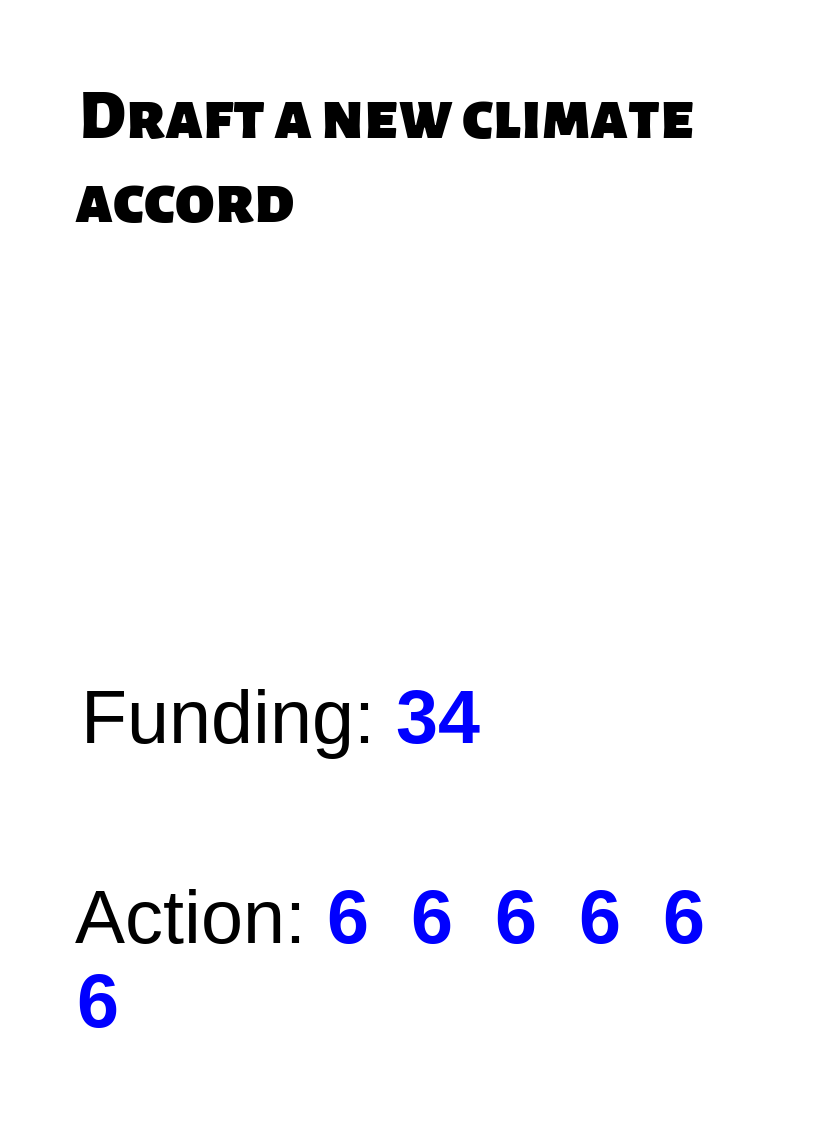
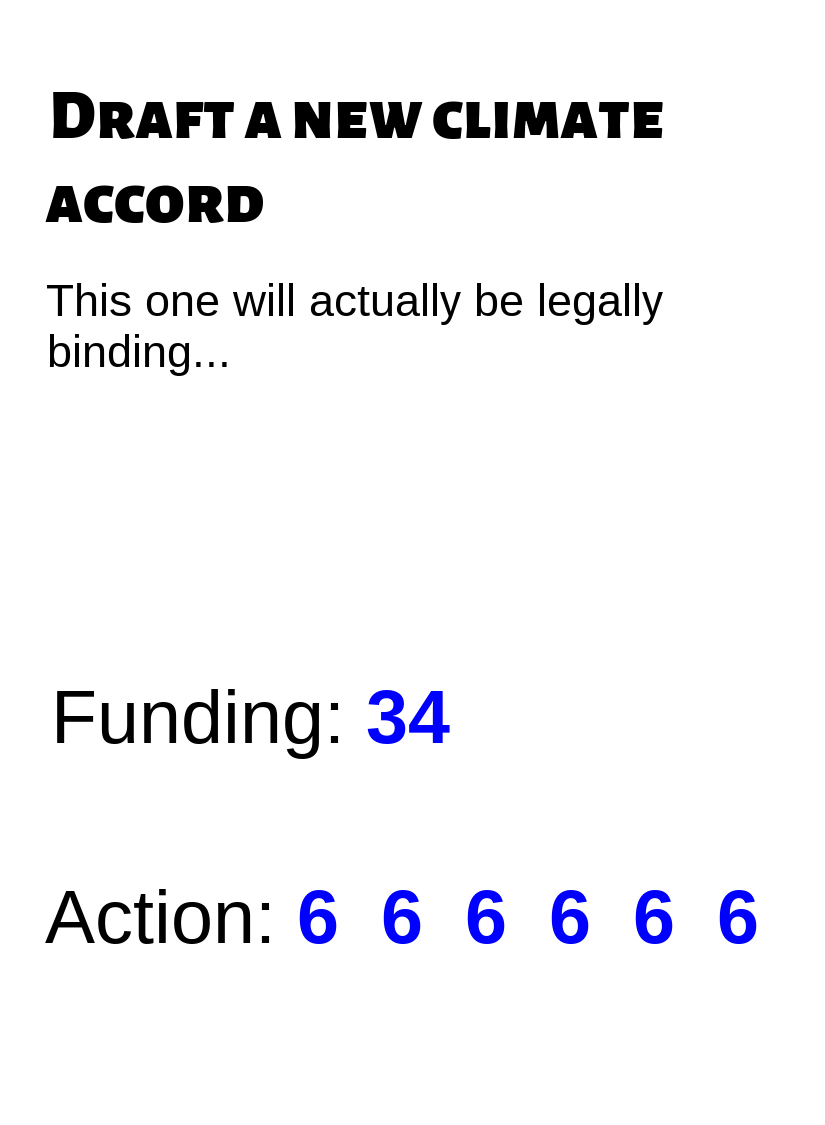
add working win/lose conditions

diff --git a/src/App.js b/src/App.js
@@ -11,7 +11,7 @@ class App extends React.Component {
 
         this.state = {
             gameStatus: "play",
-            score: gameData.startingScore,
+            currentScore: gameData.startingScore,
             rate: gameData.startingRate,
             winScore: gameData.winScore,
             loseScore: gameData.loseScore,
@@ -44,7 +44,7 @@ class App extends React.Component {
             <div className="App">
                 <div id="play" className={this.state.gameStatus === "play" ? "" : "hidden"}>
                     <div id="stateDisplay">
-                        <div>{this.state.score} / {this.state.loseScore} ({this.state.rate < 0 ? "" : "+"}{this.state.rate} / turn)</div>
+                        <div>{this.state.currentScore} / {this.state.loseScore} ({this.state.rate < 0 ? "" : "+"}{this.state.rate} / turn)</div>
                     </div>
 
                     <div id="missionDisplay">
@@ -90,22 +90,22 @@ class App extends React.Component {
         const completedMission = gameData.missions
             .find(mission => missionId === mission.id);
 
-        const oldRate = this.state.rate;
-        const newRate = this.getNewRate(completedMission);
         const completedMissionIds = this.state.completedMissionIds;
         completedMissionIds.add(missionId);
 
-        const currentScore = this.state.currentScore;
+        const oldRate = this.state.rate;
+        const newScore = this.state.currentScore + oldRate;
+        const newRate = this.getNewRate(completedMission);
+        
         const loseScore = this.state.loseScore;
         const winScore = this.state.winScore;
-        const newGameStatus = currentScore <= winScore ? "win"
-            : currentScore >= loseScore ? "lose"
+        const newGameStatus = newScore <= winScore ? "win"
+            : newScore >= loseScore ? "lose"
                 : "play";
-        console.log("New game status: " + newGameStatus);
 
         this.setState({
             rate: newRate,
-            score: this.state.score + oldRate,
+            currentScore: newScore,
             completedMissionIds: completedMissionIds,
             gameStatus: newGameStatus,
         });
